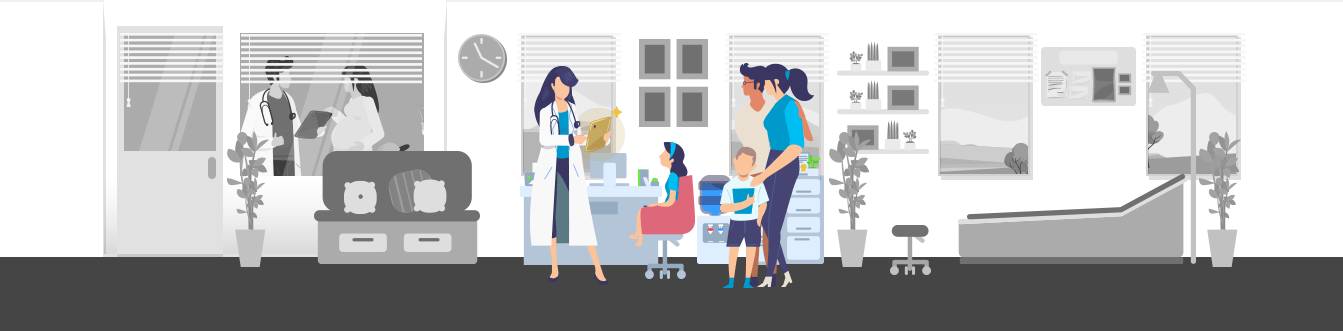
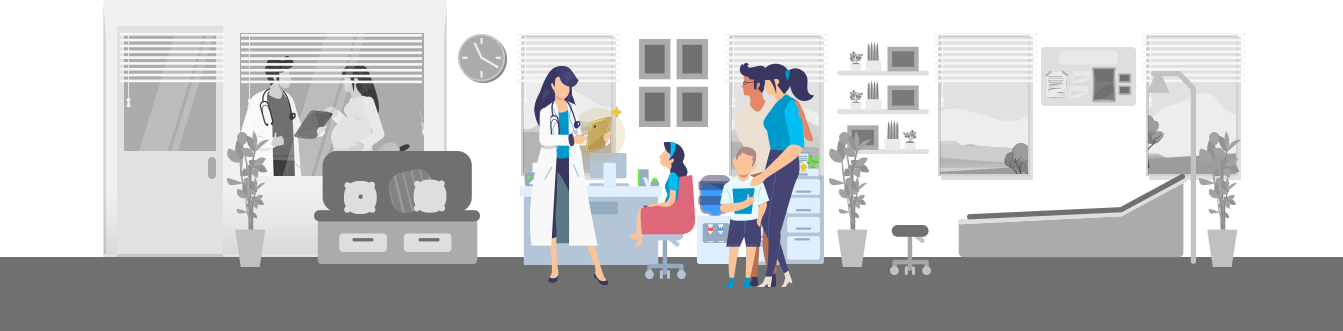
refactor: replace usp covers of doctors and specialized

Changed region(s): [[0.0, 0.7553, 1.0, 1.0]]

diff --git a/src/components/specialized/usp/index.vue b/src/components/specialized/usp/index.vue
@@ -1,5 +1,5 @@
 <template lang="pug">
-  div.mc-gradient-grey
+  div.white
     usp-template(
       :uspTitle="uspTitle"
       :uspMetaTitle="uspContents.metaTitle"
